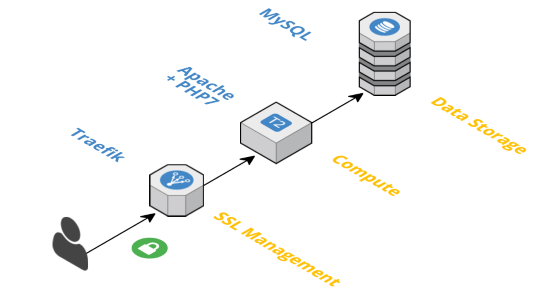
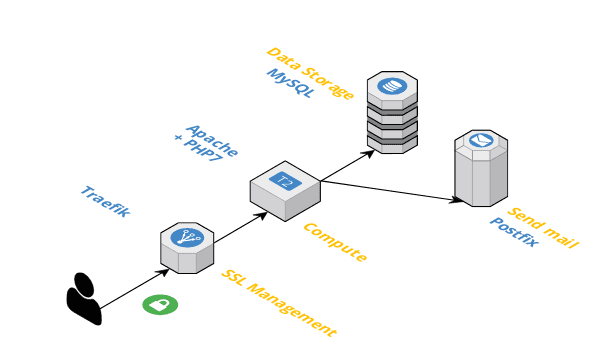
Add mailer container to architecture schema & doc
* And some minor fixes on wording

diff --git a/dev/docker-architecture.md b/dev/docker-architecture.md
@@ -1,7 +1,7 @@
 # Docker Architecture
 
 
-**Note :** That page covers the supported Jeyser architecture (ie the Docker one). Jeyser can work without containers, however as the installation is harder and less secure, we won't cover it deeply there.
+**Note :** This page covers the supported Jeyser architecture (ie based on Docker). Jeyser can also run without containers, however because the installation is harder and less secure, we won't cover it here.
 
 ### Docker infrastructure
 
@@ -21,13 +21,15 @@ As detailled in the docker-compose.yml we have :
  
  - mysql: A Mysql 5 database to store your data. It mounts a volume in jeyser's `docker/mysql` folder, thus even if you delete the container, your database will be saved.
  
+
+ - mailer: A postfix server to send any email coming from Docker network.
  
  **Docker basics**
  
-Here are some basics for those who wouldn't be used to Docker.
+Here are some basics for anyone not used to Docker.
 
 Launch Jeyser containers : `docker-compose up -d`
 
 Get access to Jeyser logs : `docker-compose logs` you can add a container name after logs if you want to see logs from a specific container.
 
-If something is misworking, begin with a `docker-compose restart`. You can restart a specific container if you specify its name after restart.
+If something is not working as expected, begin with a `docker-compose restart`. You can restart a specific container if you specify its name after restart.
